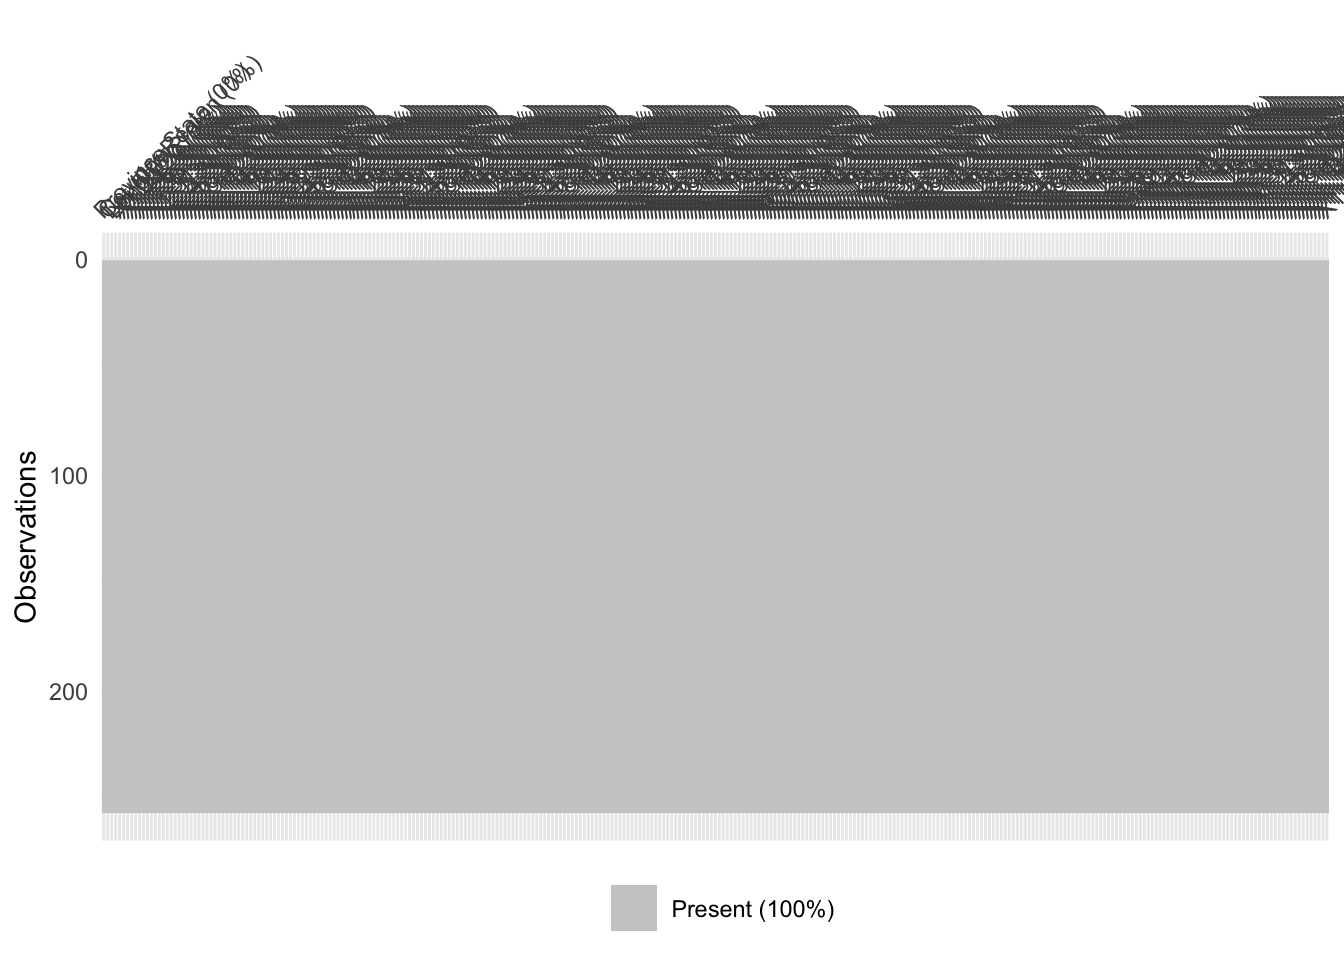
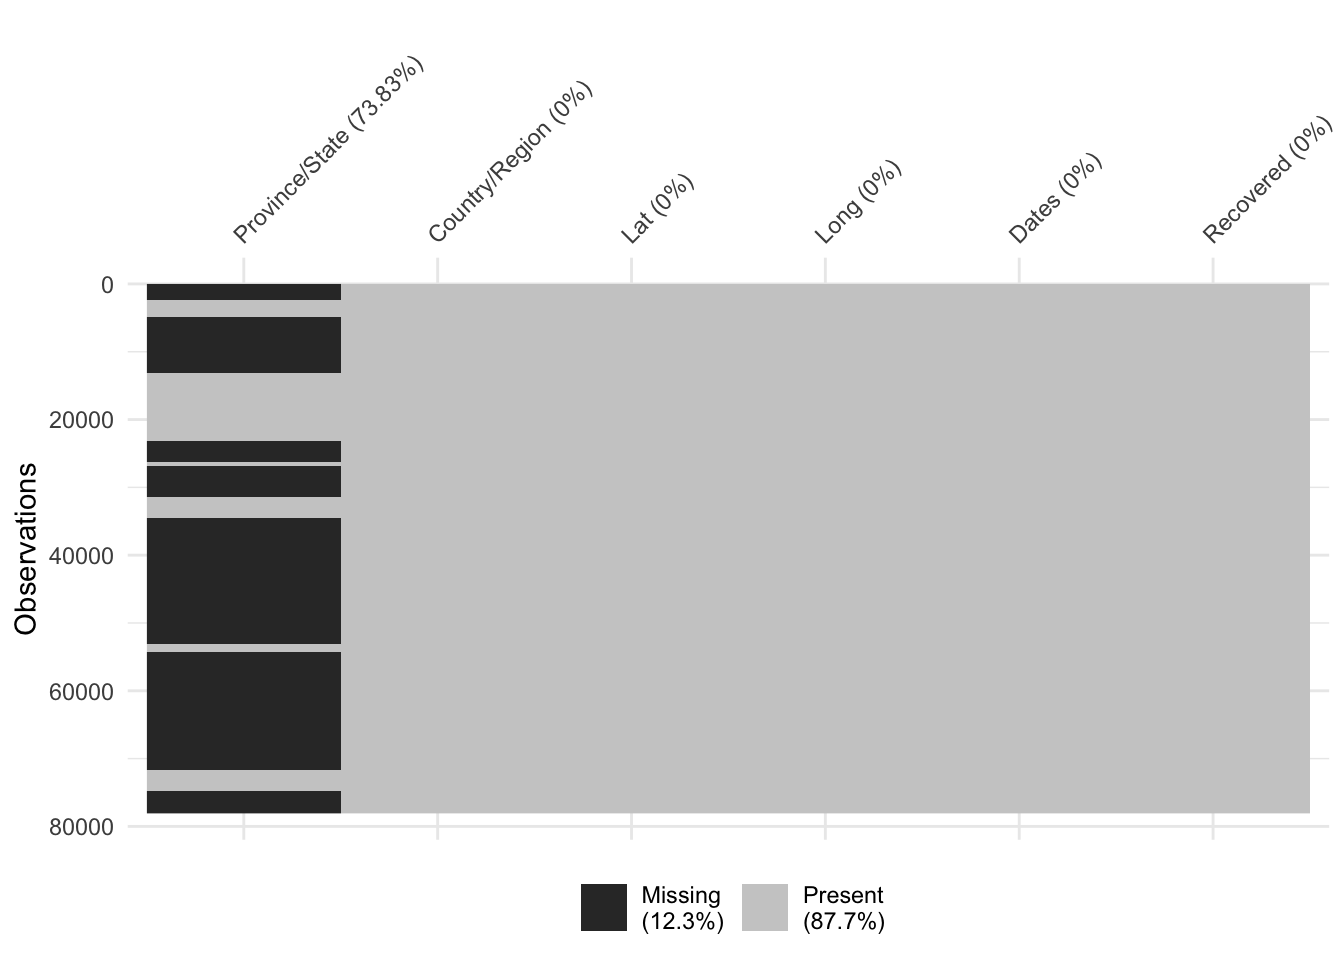
add an extra missing value graph on joined data set

Changed region(s): [[0.0, 0.0625, 1.0, 0.875], [0.4062, 0.9062, 0.6562, 0.9688]]

diff --git a/docs/missing-values.html b/docs/missing-values.html
@@ -103,8 +103,11 @@
 <p>Exploring pattern of the missing value is an important step of any exploratory data analysis. Investigating missing values prior to beginning earnest work on the project provides us with deeper familiarity with available dimensions/data types/features. In our project, we we will consider empty or “NA” to be missing data. We will not consider 0 to be missing as it means that we have information about this data value and it is 0. 0 does not necessaily indicates missingness.</p>
 <p>We also choose to visualize the missingness of our data using the joined dataframe from the tidy version of the three data sets. As each of our original data set contains 309 columns, it’s difficult to fit all columns names on one axis as they will be clustered and overlapped with each other. Instead, using joined tidy version of the three data sets yields only 9 variables for each data set which is obviously clearer and easier to fit in a graph.</p>
 <p>The visualizations below show that we have no missing numerical variables in the three data sets. In other words, all longitude, latitude Dates and cases records (whether they are confirmed, recovered or deaths) are 100 % present for each country on each date.</p>
-<p>However, we have missing data in categorical variables Province/State for certain countries/regions. The missing date in Province/State consists 11.6% of the data The missingness in Province/State is described in detail in the data source chapter as we explained the data collection process. To iterate, due to different characteristics of each country or region, only Australia, Canada, China, dependencies of the Netherlands, the UK, France and Denmark are reported at the province/state level. This pattern of missingness might be able to give more detailed distribution of Covid-19 cases of some countries over others which might in turn gives interesting geographical patterns.</p>
-<p><img src="finalproj_files/figure-html/unnamed-chunk-4-1.png" width="672" /></p>
+<p>However, we have missing data in categorical variables Province/State for certain countries/regions. For both tidy_confirmed and tidy_deaths dataframe, the missing data in Province/State consists 11.6% of the data, 69.89% of the variable itself. For tidy_recovered, with a smaller number of countries/regions, the missing data in Province/State consists 12.3% of the data, 73.83% of the variable itself which is a minor increase compared to other two data sets.</p>
+<p>The missingness in Province/State is described in detail in the data source chapter as we explained the data collection process. To iterate, due to different characteristics of each country or region, only Australia, Canada, China, dependencies of the Netherlands, the UK, France and Denmark are reported at the province/state level. This pattern of missingness might be able to give more detailed distribution of Covid-19 cases of some countries over others which might in turn gives interesting geographical patterns.</p>
+<p><img src="finalproj_files/figure-html/unnamed-chunk-4-1.png" width="672" /><img src="finalproj_files/figure-html/unnamed-chunk-4-2.png" width="672" /><img src="finalproj_files/figure-html/unnamed-chunk-4-3.png" width="672" /></p>
+<p>This is a very interesting view of the missing data. We used the fully joined data set. In addition to the expected missing value in the Province/State variable, we also observe about 7.06% of missing value in recovered cases. How did this happen? Did we just generate “missing” data? Well, obviously no. The missing values in the recovered variable in this fully joined data set to seem appear out of nowhere is due to the fact that in tidy_recovered data set, we have few countries/regions than the other two data sets. So after joining, we have countries that only have information about confirmed cases and deaths but not about recovered cases. For example, British Columbia province in Canada has no recovered case record. In fact, tidy_recovered only has one Canada record with no specification to which province/state it refers to or if it considers Canada as a whole.</p>
+<p><img src="finalproj_files/figure-html/unnamed-chunk-5-1.png" width="672" /></p>
 
 </div>
             </section>
